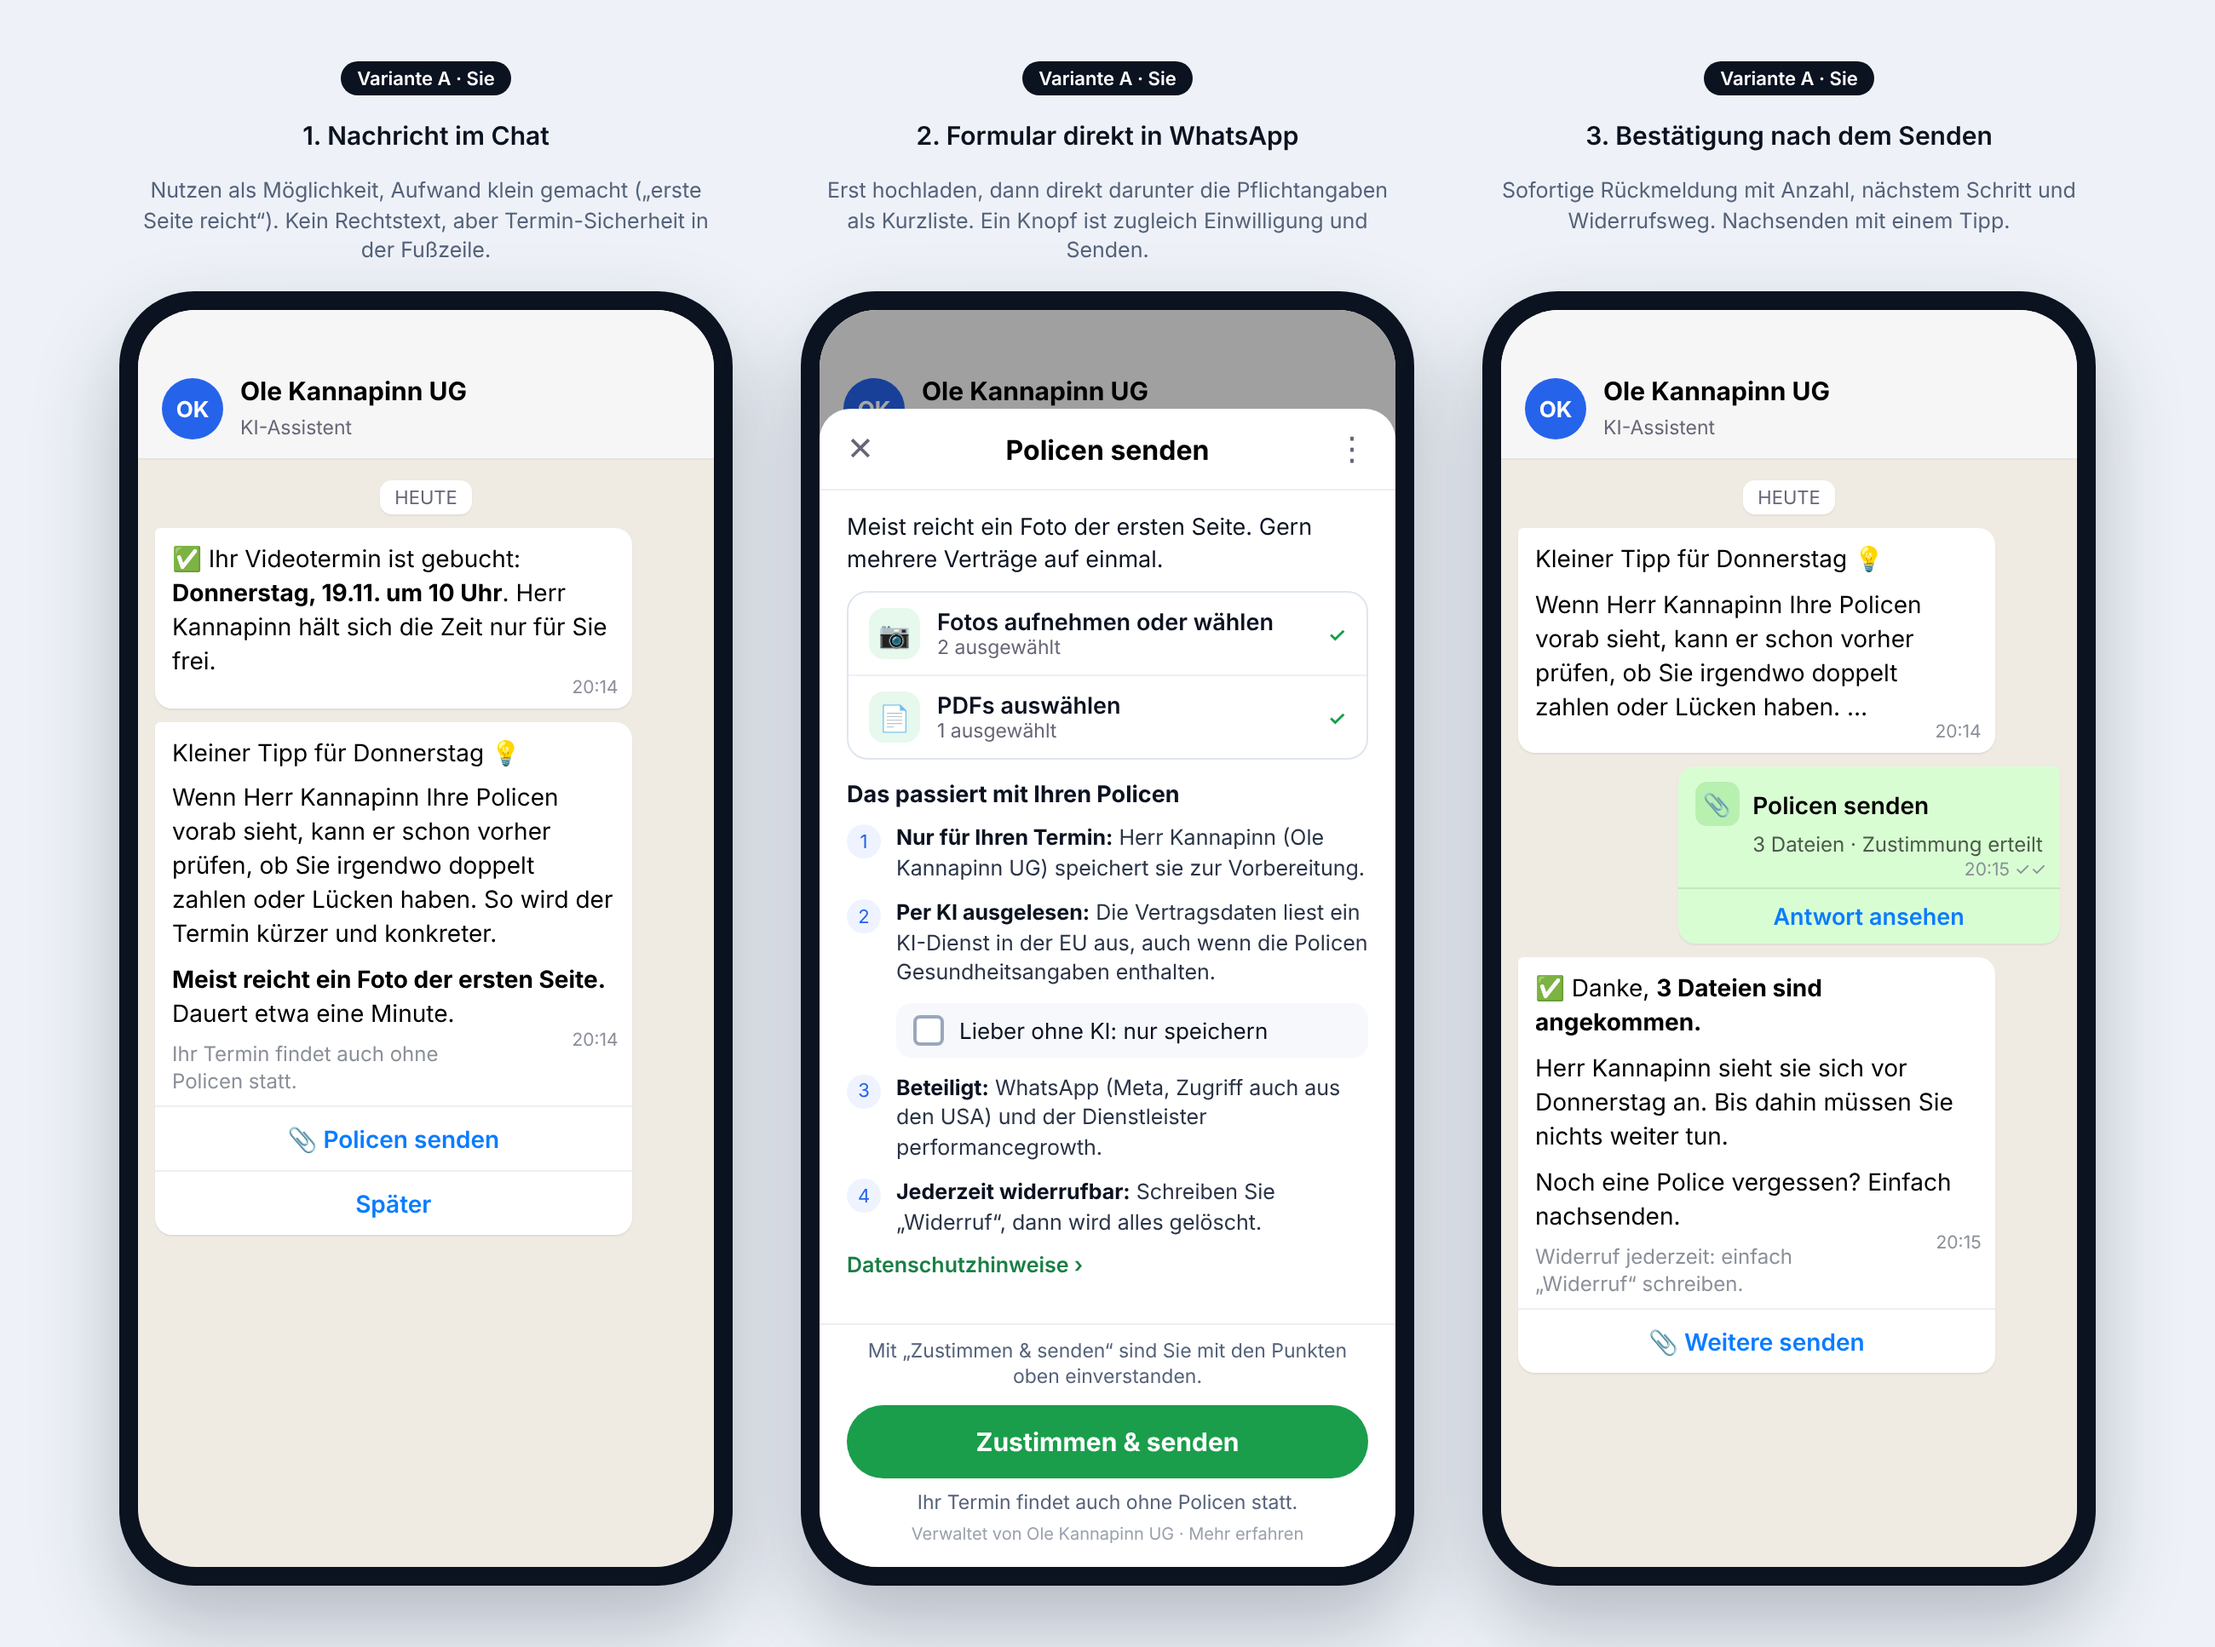
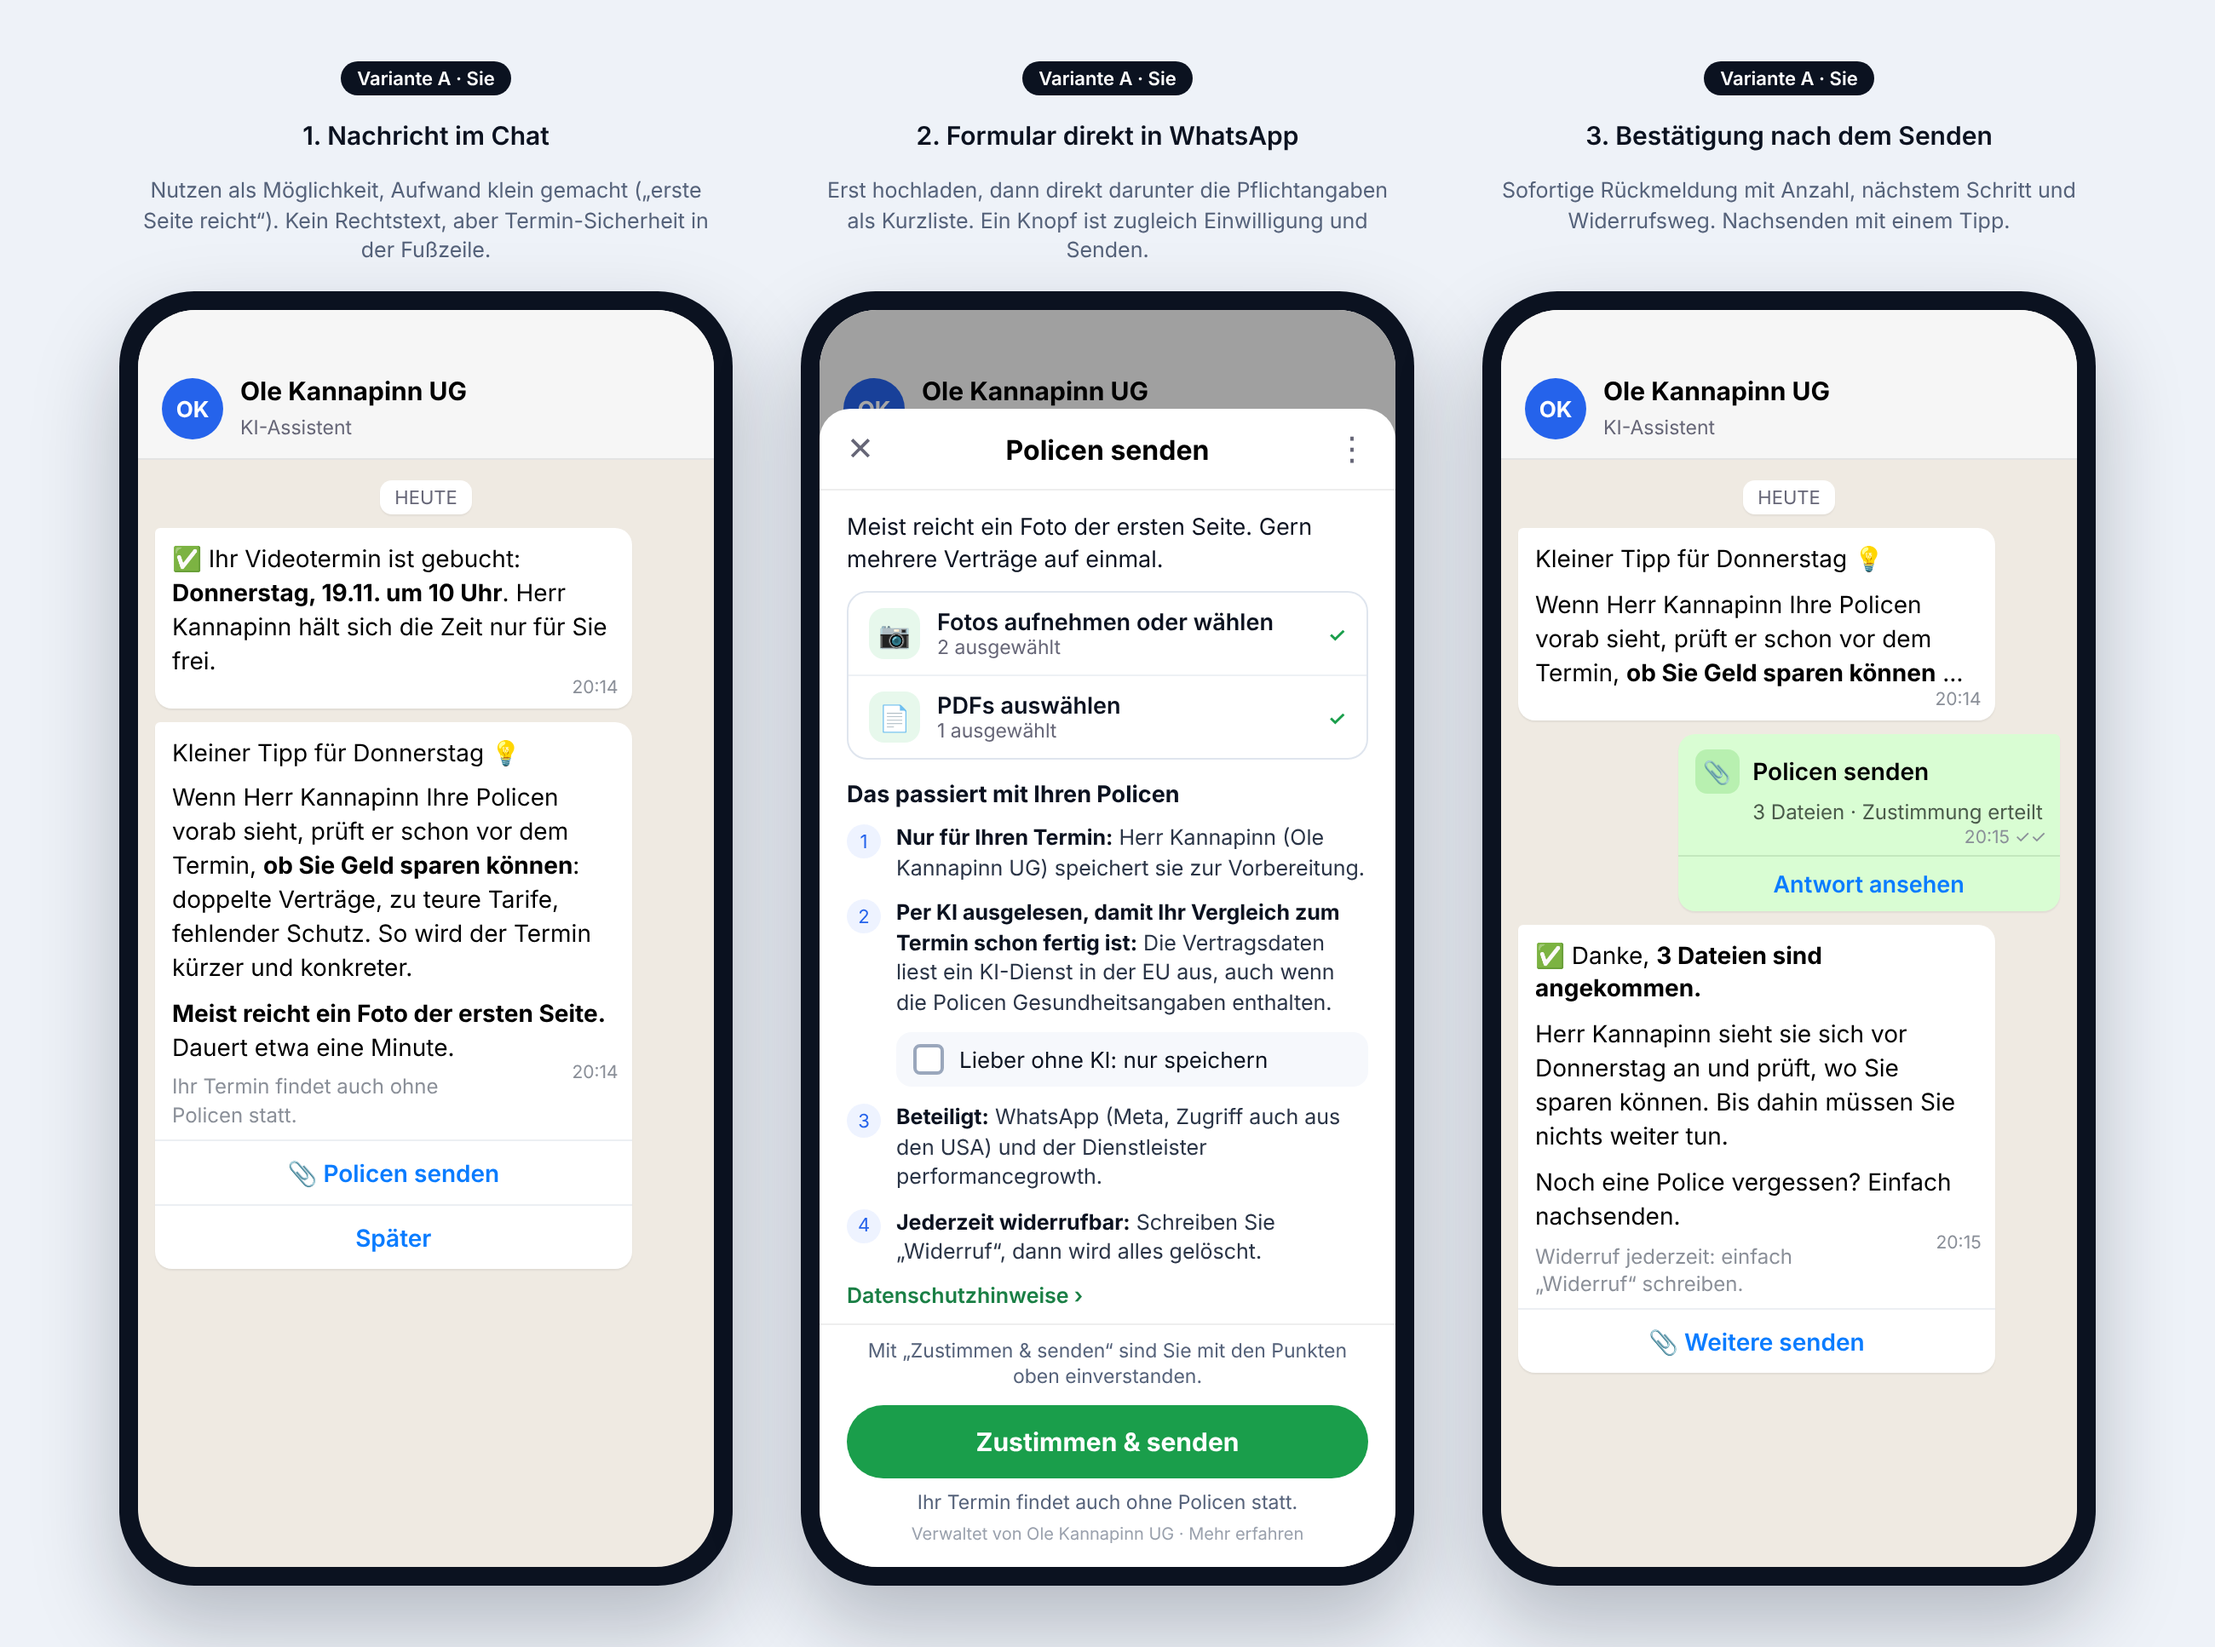
Policen-Flow v2: Sparen und KI-Nutzen in Texten, finale Textdatei, Anwaltsfrage
Claude-Session: https://claude.ai/code/session_01CQ2Zs85yX8JZJRw9ZD6CZK

Changed region(s): [[0.6854, 0.3723, 0.9346, 0.6825], [0.3738, 0.5274, 0.6231, 0.8066], [0.0623, 0.4964, 0.3115, 0.7756]]

diff --git a/docs/ux/policen-flow/mockup-v2.html b/docs/ux/policen-flow/mockup-v2.html
@@ -47,7 +47,7 @@
 <div class="chat">
 <div class="day">HEUTE</div>
 <div class="msg"><div class="b">✅ Ihr Videotermin ist gebucht: <b>Donnerstag, 19.11. um 10 Uhr</b>. Herr Kannapinn hält sich die Zeit nur für Sie frei.<span class="t">20:14</span></div></div>
-<div class="msg"><div class="b"><p>Kleiner Tipp für Donnerstag 💡</p><p>Wenn Herr Kannapinn Ihre Policen vorab sieht, kann er schon vorher prüfen, ob Sie irgendwo doppelt zahlen oder Lücken haben. So wird der Termin kürzer und konkreter.</p><p><b>Meist reicht ein Foto der ersten Seite.</b> Dauert etwa eine Minute.</p><span class="t">20:14</span></div>
+<div class="msg"><div class="b"><p>Kleiner Tipp für Donnerstag 💡</p><p>Wenn Herr Kannapinn Ihre Policen vorab sieht, prüft er schon vor dem Termin, <b>ob Sie Geld sparen können</b>: doppelte Verträge, zu teure Tarife, fehlender Schutz. So wird der Termin kürzer und konkreter.</p><p><b>Meist reicht ein Foto der ersten Seite.</b> Dauert etwa eine Minute.</p><span class="t">20:14</span></div>
 <div class="ft">Ihr Termin findet auch ohne Policen statt.</div>
 <div class="qb">📎 Policen senden</div><div class="qb">Später</div></div>
 </div></div></div></div>
@@ -63,7 +63,7 @@
 </div>
 <div class="sub2">Das passiert mit Ihren Policen</div>
 <div class="li"><i>1</i><div><b>Nur für Ihren Termin:</b> Herr Kannapinn (Ole Kannapinn UG) speichert sie zur Vorbereitung.</div></div>
-<div class="li"><i>2</i><div><b>Per KI ausgelesen:</b> Die Vertragsdaten liest ein KI-Dienst in der EU aus, auch wenn die Policen Gesundheitsangaben enthalten.</div></div>
+<div class="li"><i>2</i><div><b>Per KI ausgelesen, damit Ihr Vergleich zum Termin schon fertig ist:</b> Die Vertragsdaten liest ein KI-Dienst in der EU aus, auch wenn die Policen Gesundheitsangaben enthalten.</div></div>
 <div class="ck"><s></s>Lieber ohne KI: nur speichern</div>
 <div class="li"><i>3</i><div><b>Beteiligt:</b> WhatsApp (Meta, Zugriff auch aus den USA) und der Dienstleister performancegrowth.</div></div>
 <div class="li"><i>4</i><div><b>Jederzeit widerrufbar:</b> Schreiben Sie „Widerruf“, dann wird alles gelöscht.</div></div>
@@ -76,9 +76,9 @@
 <div class="phone"><div class="scr"><div class="top"><div class="av">OK</div><div><b>Ole Kannapinn UG</b><small>KI-Assistent</small></div></div>
 <div class="chat">
 <div class="day">HEUTE</div>
-<div class="msg"><div class="b"><p>Kleiner Tipp für Donnerstag 💡</p><p>Wenn Herr Kannapinn Ihre Policen vorab sieht, kann er schon vorher prüfen, ob Sie irgendwo doppelt zahlen oder Lücken haben. …</p><span class="t">20:14</span></div></div>
+<div class="msg"><div class="b"><p>Kleiner Tipp für Donnerstag 💡</p><p>Wenn Herr Kannapinn Ihre Policen vorab sieht, prüft er schon vor dem Termin, <b>ob Sie Geld sparen können</b> …</p><span class="t">20:14</span></div></div>
 <div class="msg out"><div class="fr"><div class="h"><i>📎</i>Policen senden</div><div class="s">3 Dateien · Zustimmung erteilt</div><span class="t">20:15 ✓✓</span></div><div class="fr2">Antwort ansehen</div></div>
-<div class="msg"><div class="b"><p>✅ Danke, <b>3 Dateien sind angekommen.</b></p><p>Herr Kannapinn sieht sie sich vor Donnerstag an. Bis dahin müssen Sie nichts weiter tun.</p><p>Noch eine Police vergessen? Einfach nachsenden.</p><span class="t">20:15</span></div>
+<div class="msg"><div class="b"><p>✅ Danke, <b>3 Dateien sind angekommen.</b></p><p>Herr Kannapinn sieht sie sich vor Donnerstag an und prüft, wo Sie sparen können. Bis dahin müssen Sie nichts weiter tun.</p><p>Noch eine Police vergessen? Einfach nachsenden.</p><span class="t">20:15</span></div>
 <div class="ft">Widerruf jederzeit: einfach „Widerruf“ schreiben.</div>
 <div class="qb">📎 Weitere senden</div></div>
 </div></div></div></div>

diff --git a/docs/ux/policen-flow/texte-v2.md b/docs/ux/policen-flow/texte-v2.md
@@ -1,0 +1,54 @@
+# Policen-Strecke v2: finale Texte (freigegeben von Ole am 18.11.)
+
+Bild: docs/ux/policen-flow/mockup-v2.png, Quelle mockup-v2.html. Platzhalter: {Name} = "Herr/Frau Nachname" des Vermittlers, {Firma} = Firma des Vermittlers, {Tag}, {Uhrzeit}, {n}.
+Du oder Sie kommt aus dem Lead-Kanal wie bisher.
+
+## 1. Chat-Nachricht (Template mit Flow-Knopf und Quick Reply)
+Sie:
+Kleiner Tipp für {Tag} 💡
+Wenn {Name} Ihre Policen vorab sieht, prüft er/sie schon vor dem Termin, *ob Sie Geld sparen können*: doppelte Verträge, zu teure Tarife, fehlender Schutz. So wird der Termin kürzer und konkreter.
+*Meist reicht ein Foto der ersten Seite.* Dauert etwa eine Minute.
+Fußzeile: Ihr Termin findet auch ohne Policen statt.
+Knöpfe: [📎 Policen senden] [Später]
+
+Du:
+Kleiner Tipp für {Tag} 💡
+Wenn {Name} deine Policen vorab sieht, prüft er/sie schon vor dem Termin, *ob du Geld sparen kannst*: doppelte Verträge, zu teure Tarife, fehlender Schutz. So wird der Termin kürzer und konkreter.
+*Meist reicht ein Foto der ersten Seite.* Dauert etwa eine Minute.
+Fußzeile: Dein Termin findet auch ohne Policen statt.
+
+## 2. Flow "Policen senden" (ein Bildschirm, kein data_exchange vor dem Footer-Knopf)
+Text: Meist reicht ein Foto der ersten Seite. Gern mehrere Verträge auf einmal.
+PhotoPicker: Fotos aufnehmen oder wählen
+DocumentPicker: PDFs auswählen
+Überschrift: Das passiert mit Ihren Policen / deinen Policen
+1. **Nur für Ihren/deinen Termin:** {Name} ({Firma}) speichert sie zur Vorbereitung.
+2. **Per KI ausgelesen, damit Ihr/dein Vergleich zum Termin schon fertig ist:** Die Vertragsdaten liest ein KI-Dienst in der EU aus, auch wenn die Policen Gesundheitsangaben enthalten.
+   Checkbox, NICHT vorbelegt: Lieber ohne KI: nur speichern  (gesetzt => ki=false)
+3. **Beteiligt:** WhatsApp (Meta, Zugriff auch aus den USA) und der Dienstleister performancegrowth.
+4. **Jederzeit widerrufbar:** Schreiben Sie / Schreib „Widerruf“, dann wird alles gelöscht.
+EmbeddedLink: Datenschutzhinweise
+Hinweis: Mit „Zustimmen & senden“ sind Sie / bist du mit den Punkten oben einverstanden.
+Footer-Knopf: Zustimmen & senden
+Text darunter: Ihr/Dein Termin findet auch ohne Policen statt.
+
+## 3. Bestätigung
+✅ Danke, *{n} Dateien sind angekommen.* {Name} sieht sie sich vor {Tag} an und prüft, wo Sie sparen können / du sparen kannst. Bis dahin müssen Sie / musst du nichts weiter tun. Noch eine Police vergessen? Einfach nachsenden.
+Fußzeile: Widerruf jederzeit: einfach „Widerruf“ schreiben.
+Knopf: [📎 Weitere senden]
+Mit ki=false zusätzlich: Alles klar, wir lesen nichts automatisch aus.
+
+## 4. "Später" und Erinnerungen (max. 2, nur mit Opt-in aus der Buchung)
+Antwort auf Später: Alles klar, kein Problem. Ihr Termin findet so oder so statt. Ich erinnere Sie höchstens zweimal daran. [Nein, danke]
+Erinnerung 1 (24 h später, nur wenn Termin mind. 2 Tage entfernt): Kurze Erinnerung an Ihren Termin am {Tag}: Mit Ihren Policen kann {Name} vorab prüfen, ob Sie Geld sparen können. Meist reicht ein Foto der ersten Seite. [📎 Policen senden] [Nein, danke]
+Erinnerung 2 (Vortag 18 Uhr): Morgen um {Uhrzeit} ist Ihr Videotermin. Wenn {Name} Ihre Policen vorher sieht, kann er/sie gezielter vorbereiten. Wenn nicht, auch gut: Sie können sie auch im Termin zeigen. [📎 Policen senden] [Nein, danke]
+Fußzeile beider: Kein Interesse? Tippen Sie „Nein, danke“ oder STOP.
+Antwort auf Nein/STOP: Alles klar, keine Erinnerungen mehr. Bis {Tag} um {Uhrzeit}!
+Du-Form analog.
+
+## Regeln
+- "Später" ist weder Einwilligung noch Ablehnung.
+- Einwilligung als neue Textversion protokollieren (Text-Hash, Zeitpunkt, ki true/false).
+- Keine Aussage "automatisch gelöscht nach 90 Tagen", solange der Löschjob nicht live ist.
+- KI-Satz "Vergleich zum Termin schon fertig" nur, wenn das Vergleichsblatt wirklich vor dem Termin entsteht.
+- "Ohne KI" nie schlechtreden (kein Dark Pattern).

diff --git a/docs/recht/anwalt-mail-entwurf.md b/docs/recht/anwalt-mail-entwurf.md
@@ -12,7 +12,7 @@ Im Anhang finden Sie ein Paket mit unserer internen Vorprüfung, einer Übersich
 
 Am dringendsten ist Teil A: Seit dem 18.11.2026 bittet unser Assistent Interessenten, ihre Policen per WhatsApp zu schicken, auch aus Kranken-, BU- und Lebensversicherung. Die Vertragsdaten liest ein KI-Dienst in der EU aus. Die Funktion ist bereits live. Besonders wichtig sind uns:
 
-1. Genügt ein WhatsApp-Knopf „Einverstanden“ als ausdrückliche Einwilligung nach Art. 9 DSGVO und als Befugnis nach § 203 StGB (A1)?
+1. Genügt der Knopf „Zustimmen & senden“ in einem WhatsApp-Formular (mit dem Satz „Mit ‚Zustimmen & senden‘ sind Sie mit den Punkten oben einverstanden.“ direkt darüber) als ausdrückliche Einwilligung nach Art. 9 DSGVO und als Befugnis nach § 203 StGB (A1)? Und reicht ein nicht vorbelegter Haken „Lieber ohne KI: nur speichern“ im selben Formular als Wahlmöglichkeit ohne KI (A9)? Text und Bild: Anhang 6.
 2. Dürfen wir Speichern und KI-Auslesen in einer Einwilligung bündeln (A11)?
 3. Reicht die Einwilligung als Befugnis für die Weitergabe an Meta und 360dialog, die keine Verpflichtung nach § 203 StGB abgeben (A3)?
 
